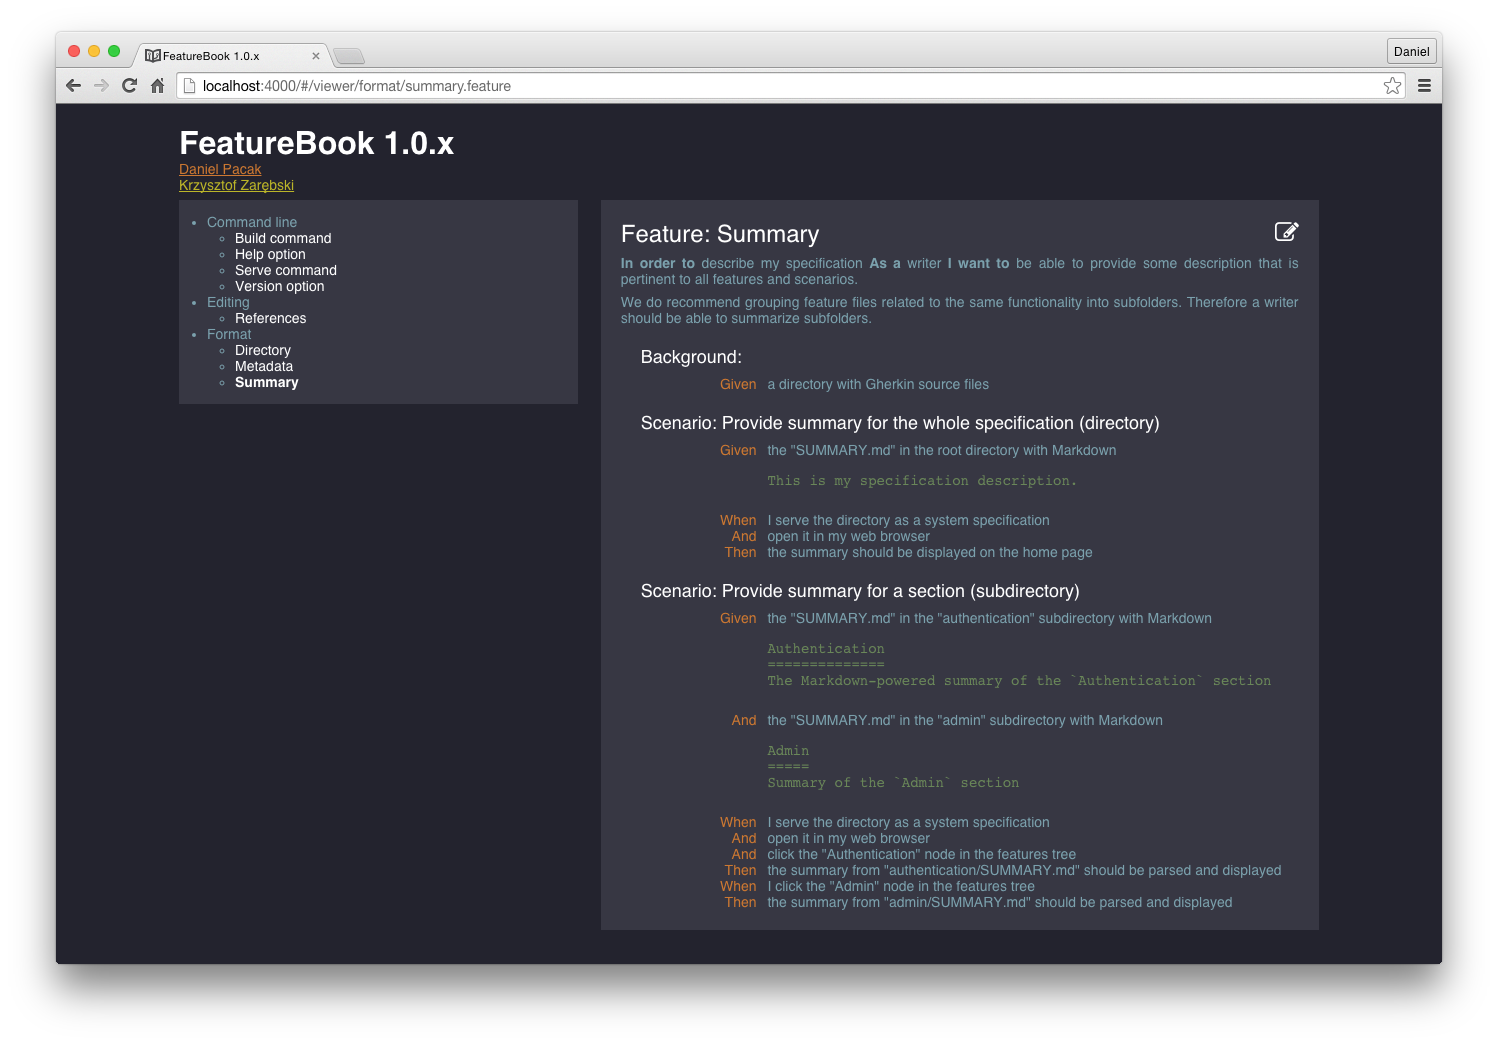
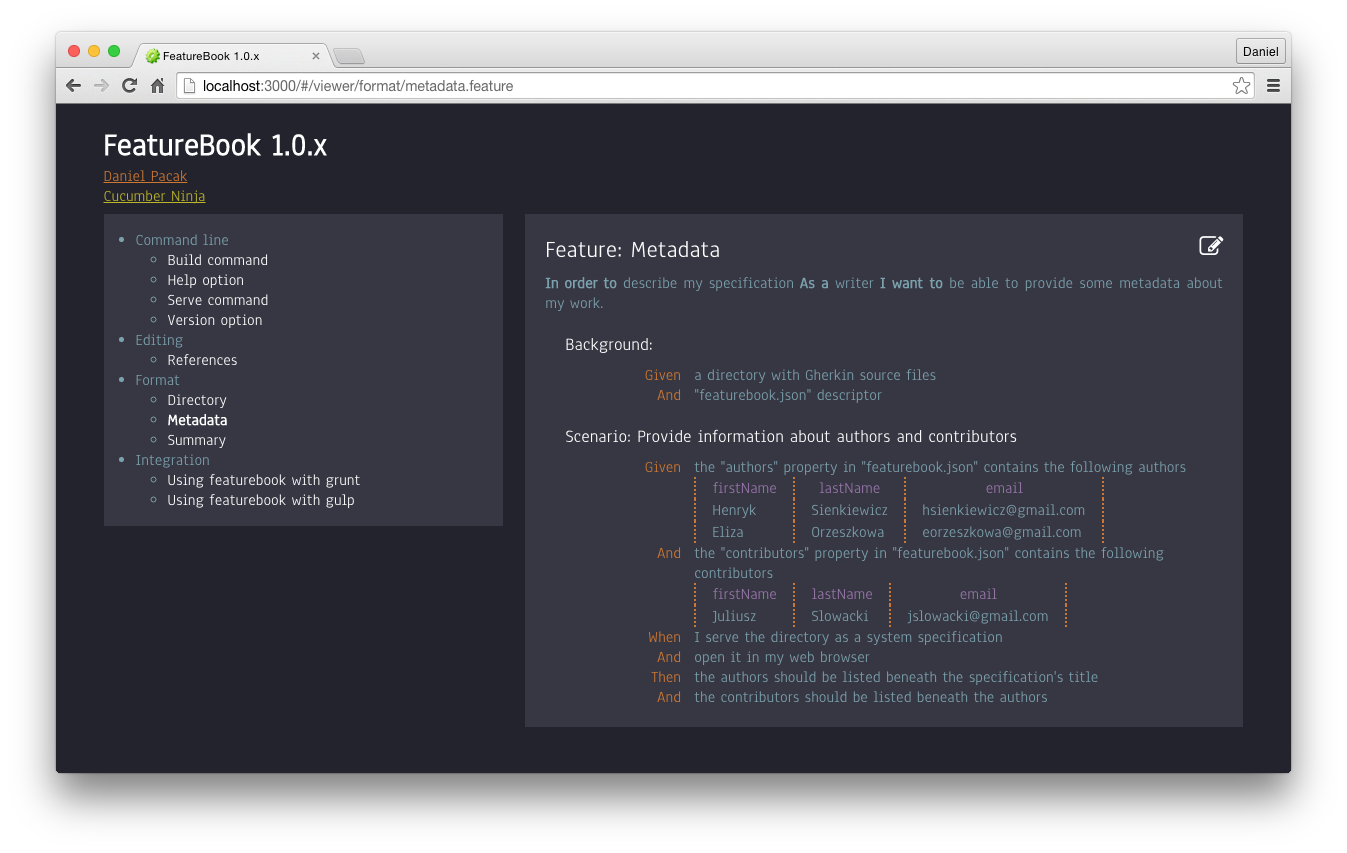
New font new screenshots.

Changed region(s): [[0.0312, 0.0305, 0.9666, 0.9449], [0.4053, 0.2134, 0.9042, 0.3658], [0.0935, 0.4572, 0.2806, 0.6096]]

diff --git a/public/index.html b/public/index.html
@@ -13,7 +13,8 @@
     <script type="text/javascript" src="vendor/ace-builds/src-min-noconflict/ace.js"></script>
     <script type="text/javascript" src="vendor/angular-ui-ace/ui-ace.min.js"></script>
 
-    <link rel="stylesheet" href="//maxcdn.bootstrapcdn.com/font-awesome/4.3.0/css/font-awesome.min.css">
+    <link rel="stylesheet" type="text/css" href="//maxcdn.bootstrapcdn.com/font-awesome/4.3.0/css/font-awesome.min.css">
+    <link rel="stylesheet" type="text/css" href="http://fonts.googleapis.com/css?family=Anaheim&subset=latin,latin-ext">
 
     <script src="scripts/featurebook.module.js"></script>
     <script src="scripts/featurebook.controller.js"></script>

diff --git a/public/styles/featurebook.css b/public/styles/featurebook.css
@@ -6,7 +6,8 @@
 
 body {
     background: #23232E;
-    font: 14px normal Arial, Helvetica, sans-serif;
+    font-family: 'Anaheim', Arial, Helvetica, sans-serif;
+    font-size: 16px;
     color: #7BA1AD;
     margin: 20px;
 }

diff --git a/README.md b/README.md
@@ -30,8 +30,6 @@ Here is an [example](https://github.com/SOFTWARE-CLINIC/featurebook-examples).
 
 ![Screenshot 2](/README/featurebook_screenshot_2.png)
 
-![Screenshot 3](/README/featurebook_screenshot_3.png)
-
 ## Rationale
 
 Even in 2015, there are development teams that don't know how to apply
